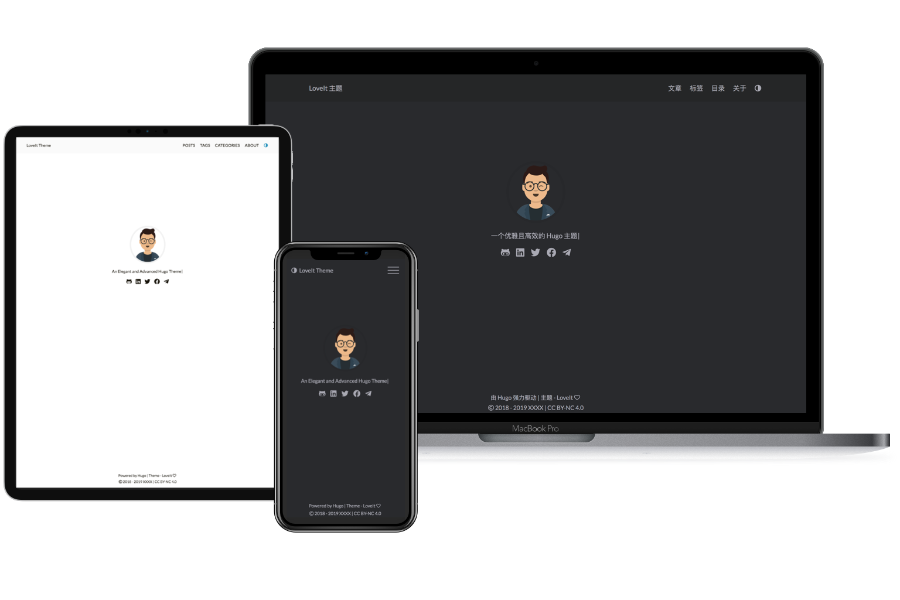
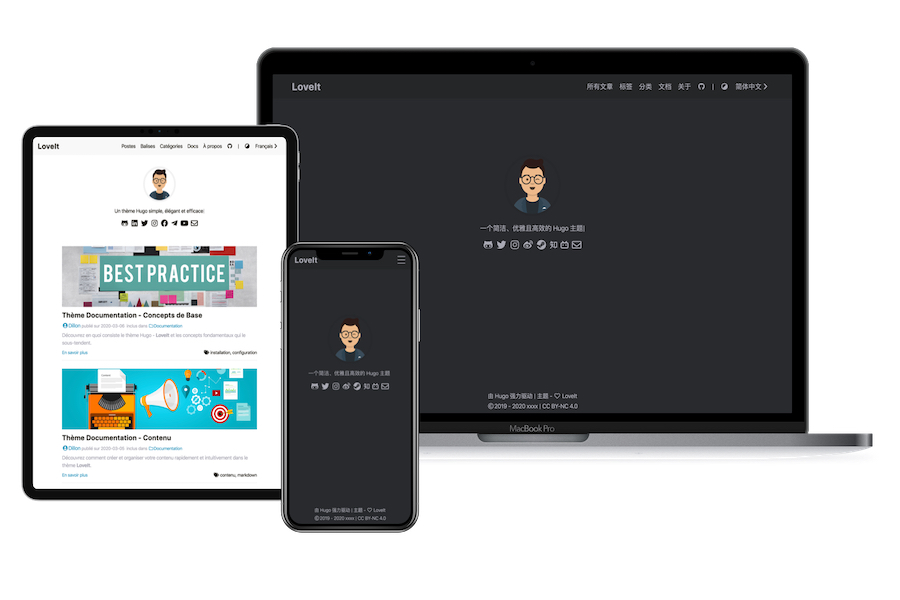
docs: update theme preview image and fix some docs error (#151)

diff --git a/assets/css/_partial/_home/_summary.scss b/assets/css/_partial/_home/_summary.scss
@@ -74,10 +74,10 @@
         &::before {
           content: "|";
           margin-right: .3125rem;
-          color: $single-link-color;
+          color: $global-link-color;
 
           .dark-theme & {
-            color: $single-link-color-dark;
+            color: $global-link-color-dark;
           }
         }
       }
@@ -89,6 +89,28 @@
           content: "#";
         }
       }
+
+      a {
+        color: $global-link-color;
+
+        .dark-theme & {
+          color: $global-link-color-dark;
+        }
+
+        &:hover {
+          color: $global-link-hover-color;
+
+          .dark-theme & {
+            color: $global-link-hover-color-dark;
+          }
+        }
+      }
+
+      b, strong {
+        .dark-theme & {
+          color: $global-font-secondary-color-dark;
+        }
+      }
     }
 
     .post-footer {
@@ -96,20 +118,20 @@
       display: flex;
       justify-content: space-between;
       align-items: center;
-      font-size: .875rem !important;
+      font-size: .875rem;
 
       a {
-        color: $single-link-color !important;
+        color: $single-link-color;
 
         .dark-theme & {
-          color: $single-link-color-dark !important;
+          color: $single-link-color-dark;
         }
 
         &:hover {
-          color: $single-link-hover-color !important;
+          color: $single-link-hover-color;
 
           .dark-theme & {
-            color: $single-link-hover-color-dark !important;
+            color: $single-link-hover-color-dark;
           }
         }
       }
@@ -118,17 +140,17 @@
         padding: 0;
 
         a {
-          color: $global-link-color !important;
+          color: $global-link-color;
 
           .dark-theme & {
-            color: $global-link-color-dark !important;
+            color: $global-link-color-dark;
           }
 
           &:hover {
-            color: $global-link-hover-color !important;
+            color: $global-link-hover-color;
 
             .dark-theme & {
-              color: $global-link-hover-color-dark !important;
+              color: $global-link-hover-color-dark;
             }
           }
         }

diff --git a/assets/css/_core/_base.scss b/assets/css/_core/_base.scss
@@ -58,10 +58,6 @@ body {
   }
 }
 
-b, strong {
-  font-weight: bold;
-}
-
 a {
   color: $global-link-color;
   text-decoration: none;
@@ -87,42 +83,4 @@ b, strong {
   }
 }
 
-#dynamic-to-top {
-  display: none;
-  overflow: hidden;
-  width: auto;
-  z-index: 100;
-  position: fixed;
-  bottom: 2rem;
-  right: 2rem;
-  top: auto;
-  left: auto;
-  font-size: 1.4rem;
-  line-height: 1.8rem;
-  padding: .6rem .6rem;
-  color: $global-font-secondary-color;
-  background: $header-background-color;
-  border: 1px solid $global-border-color;
-  border-radius: 2rem;
-
-  &:hover, &:active {
-    color: $global-font-color;
-    background: $global-background-color;
-    cursor: pointer;
-  }
-
-  &:active, &:focus, &:hover {
-    outline: none;
-  }
-
-  .dark-theme & {
-    color: $global-font-secondary-color-dark;
-    background: $header-background-color-dark;
-    border-color: $global-border-color-dark;
-
-    &:hover, &:active {
-      color: $global-font-color-dark;
-      background: $global-background-color-dark;
-    }
-  }
-}
+@import "../_partial/dynamic-to-top";

diff --git a/assets/css/_partial/_dynamic-to-top.scss b/assets/css/_partial/_dynamic-to-top.scss
@@ -1,0 +1,39 @@
+#dynamic-to-top {
+  display: none;
+  overflow: hidden;
+  width: auto;
+  z-index: 100;
+  position: fixed;
+  bottom: 2rem;
+  right: 2rem;
+  top: auto;
+  left: auto;
+  font-size: 1.4rem;
+  line-height: 1.8rem;
+  padding: .6rem .6rem;
+  color: $global-font-secondary-color;
+  background: $header-background-color;
+  border: 1px solid $global-border-color;
+  border-radius: 2rem;
+
+  &:hover, &:active {
+    color: $global-font-color;
+    background: $global-background-color;
+    cursor: pointer;
+  }
+
+  &:active, &:focus, &:hover {
+    outline: none;
+  }
+
+  .dark-theme & {
+    color: $global-font-secondary-color-dark;
+    background: $header-background-color-dark;
+    border-color: $global-border-color-dark;
+
+    &:hover, &:active {
+      color: $global-font-color-dark;
+      background: $global-background-color-dark;
+    }
+  }
+}

diff --git a/exampleSite/content/posts/theme-documentation-basics.fr.md b/exampleSite/content/posts/theme-documentation-basics.fr.md
@@ -30,11 +30,6 @@ Découvrez en quoi consiste le thème Hugo - **LoveIt** et les concepts fondamen
 
 <!--more-->
 
-{{< admonition warning >}}
-Sorry, this article has not been completely translated into **French**.
-Welcome to take the time to propose a translation by [making a PR](https://github.com/dillonzq/LoveIt/pulls) to the theme!
-{{< /admonition >}}
-
 ## 1 Requirements
 
 Thanks to the simplicity of Hugo, [Hugo](https://gohugo.io/) is the only dependency of this theme.
@@ -552,9 +547,9 @@ Add a logo image (127x40) and a cover image (800x600) in the `static` directory.
 
 **LoveIt** theme has been built to be as configurable as possible by defining custom `.scss` style files.
 
-The directory including the custom `.scss` style files is `config/css` relative to **your project path**.
+The directory including the custom `.scss` style files is `config/css` relative to **your project root directory**.
 
-In `_override.scss`, you can override the variables in `themes/LoveIt/assets/css/_variables.scss` to customize the style.
+In `config/css/_override.scss`, you can override the variables in `themes/LoveIt/assets/css/_variables.scss` to customize the style.
 
 Here is a example:
 
@@ -563,7 +558,7 @@ Here is a example:
 $code-font-family: Fira Mono, Source Code Pro, Menlo, Consolas, Monaco, monospace;
 ```
 
-In `_custom.scss`, you can add some css style code to customize the style.
+In `config/css/_custom.scss`, you can add some css style code to customize the style.
 
 ## 4 Multilingual and i18n
 

diff --git a/exampleSite/content/posts/theme-documentation-basics.en.md b/exampleSite/content/posts/theme-documentation-basics.en.md
@@ -547,9 +547,9 @@ Add a logo image (127x40) and a cover image (800x600) in the `static` directory.
 
 **LoveIt** theme has been built to be as configurable as possible by defining custom `.scss` style files.
 
-The directory including the custom `.scss` style files is `config/css` relative to **your project path**.
+The directory including the custom `.scss` style files is `config/css` relative to **your project root directory**.
 
-In `_override.scss`, you can override the variables in `themes/LoveIt/assets/css/_variables.scss` to customize the style.
+In `config/css/_override.scss`, you can override the variables in `themes/LoveIt/assets/css/_variables.scss` to customize the style.
 
 Here is a example:
 
@@ -558,7 +558,7 @@ Here is a example:
 $code-font-family: Fira Mono, Source Code Pro, Menlo, Consolas, Monaco, monospace;
 ```
 
-In `_custom.scss`, you can add some css style code to customize the style.
+In `config/css/_custom.scss`, you can add some css style code to customize the style.
 
 ## 4 Multilingual and i18n
 

diff --git a/exampleSite/content/posts/theme-documentation-basics.zh-cn.md b/exampleSite/content/posts/theme-documentation-basics.zh-cn.md
@@ -549,9 +549,9 @@ hugo
 
 通过定义自定义 `.scss` 样式文件, **LoveIt** 主题支持可配置的样式.
 
-包含自定义 `.scss` 样式文件的目录相对于 **你的项目** 的路径为 `config / css`.
+包含自定义 `.scss` 样式文件的目录相对于 **你的项目根目录** 的路径为 `config/css`.
 
-在 `_override.scss` 中, 你可以覆盖 `themes/LoveIt/assets/css/_variables.scss` 中的变量以自定义样式.
+在 `config/css/_override.scss` 中, 你可以覆盖 `themes/LoveIt/assets/css/_variables.scss` 中的变量以自定义样式.
 
 这是一个例子:
 
@@ -560,7 +560,7 @@ hugo
 $code-font-family: Fira Mono, Source Code Pro, Menlo, Consolas, Monaco, monospace;
 ```
 
-在 `_custom.scss` 中, 你可以添加一些 CSS 样式代码以自定义样式.
+在 `config/css/_custom.scss` 中, 你可以添加一些 CSS 样式代码以自定义样式.
 
 ## 4 多语言和 i18n
 

diff --git a/exampleSite/content/about.zh-cn.md b/exampleSite/content/about.zh-cn.md
@@ -11,6 +11,7 @@ lightgallery: true
 [![Hugo](https://img.shields.io/badge/Hugo-%5E0.62.0-ff4088?style=flat-square&logo=hugo)](https://gohugo.io/)
 [![License](https://img.shields.io/github/license/dillonzq/LoveIt?style=flat-square)](https://github.com/dillonzq/LoveIt/blob/master/LICENSE)
 [![GitHub stars](https://img.shields.io/github/stars/dillonzq/LoveIt?style=social)](https://github.com/dillonzq/LoveIt)
+[![GitHub forks](https://img.shields.io/github/forks/dillonzq/LoveIt?style=social)](https://github.com/dillonzq/LoveIt/fork)
 
 [LoveIt :(far fa-heart):](https://github.com/dillonzq/LoveIt) 是一个由 [Dillon](https://dillonzq.com) 开发的**简洁**、**优雅**且**高效**的 [Hugo](https://gohugo.io/) 博客主题。
 

diff --git a/exampleSite/content/about.en.md b/exampleSite/content/about.en.md
@@ -11,6 +11,7 @@ lightgallery: true
 [![Hugo](https://img.shields.io/badge/Hugo-%5E0.62.0-ff4088?style=flat-square&logo=hugo)](https://gohugo.io/)
 [![License](https://img.shields.io/github/license/dillonzq/LoveIt?style=flat-square)](https://github.com/dillonzq/LoveIt/blob/master/LICENSE)
 [![GitHub stars](https://img.shields.io/github/stars/dillonzq/LoveIt?style=social)](https://github.com/dillonzq/LoveIt)
+[![GitHub forks](https://img.shields.io/github/forks/dillonzq/LoveIt?style=social)](https://github.com/dillonzq/LoveIt/fork)
 
 [LoveIt :(far fa-heart):](https://github.com/dillonzq/LoveIt) is a **clean**, **elegant** but **advanced** blog theme for [Hugo](https://gohugo.io/) developed by [Dillon](https://dillonzq.com).
 

diff --git a/exampleSite/content/about.fr.md b/exampleSite/content/about.fr.md
@@ -11,6 +11,7 @@ lightgallery: true
 [![Hugo](https://img.shields.io/badge/Hugo-%5E0.62.0-ff4088?style=flat-square&logo=hugo)](https://gohugo.io/)
 [![License](https://img.shields.io/github/license/dillonzq/LoveIt?style=flat-square)](https://github.com/dillonzq/LoveIt/blob/master/LICENSE)
 [![GitHub stars](https://img.shields.io/github/stars/dillonzq/LoveIt?style=social)](https://github.com/dillonzq/LoveIt)
+[![GitHub forks](https://img.shields.io/github/forks/dillonzq/LoveIt?style=social)](https://github.com/dillonzq/LoveIt/fork)
 
 {{< admonition warning >}}
 Sorry, this article has not been completely translated into **French**.

diff --git a/README.md b/README.md
@@ -14,7 +14,7 @@ It is based on the original [LeaveIt Theme](https://github.com/liuzc/LeaveIt/) a
 Since the three themes have a similar look, if you have questions about their differences,
 read [Why choose LoveIt](#why-choose-loveit) so that you can choose the one that works best for you.
 
-![Hugo Theme LoveIt](images/Apple-Devices-Preview.png)
+![Hugo Theme LoveIt](https://github.com/dillonzq/LoveIt/raw/develop/images/Apple-Devices-Preview.png)
 
 ## [Demo Site](https://hugoloveit.com/)
 

diff --git a/README.zh-cn.md b/README.zh-cn.md
@@ -13,7 +13,7 @@
 
 由于三个主题外观的相似性，如果你对于它们的不同之处有疑问，请阅读 [为什么选择 LoveIt](#为什么选择-LoveIt)，以便你能选择最适合你的一个。
 
-![Hugo 主题 LoveIt](images/Apple-Devices-Preview.png)
+![Hugo 主题 LoveIt](https://github.com/dillonzq/LoveIt/raw/develop/images/Apple-Devices-Preview.png)
 
 ## 主题[预览](https://hugoloveit.com/zh-cn/)
 
